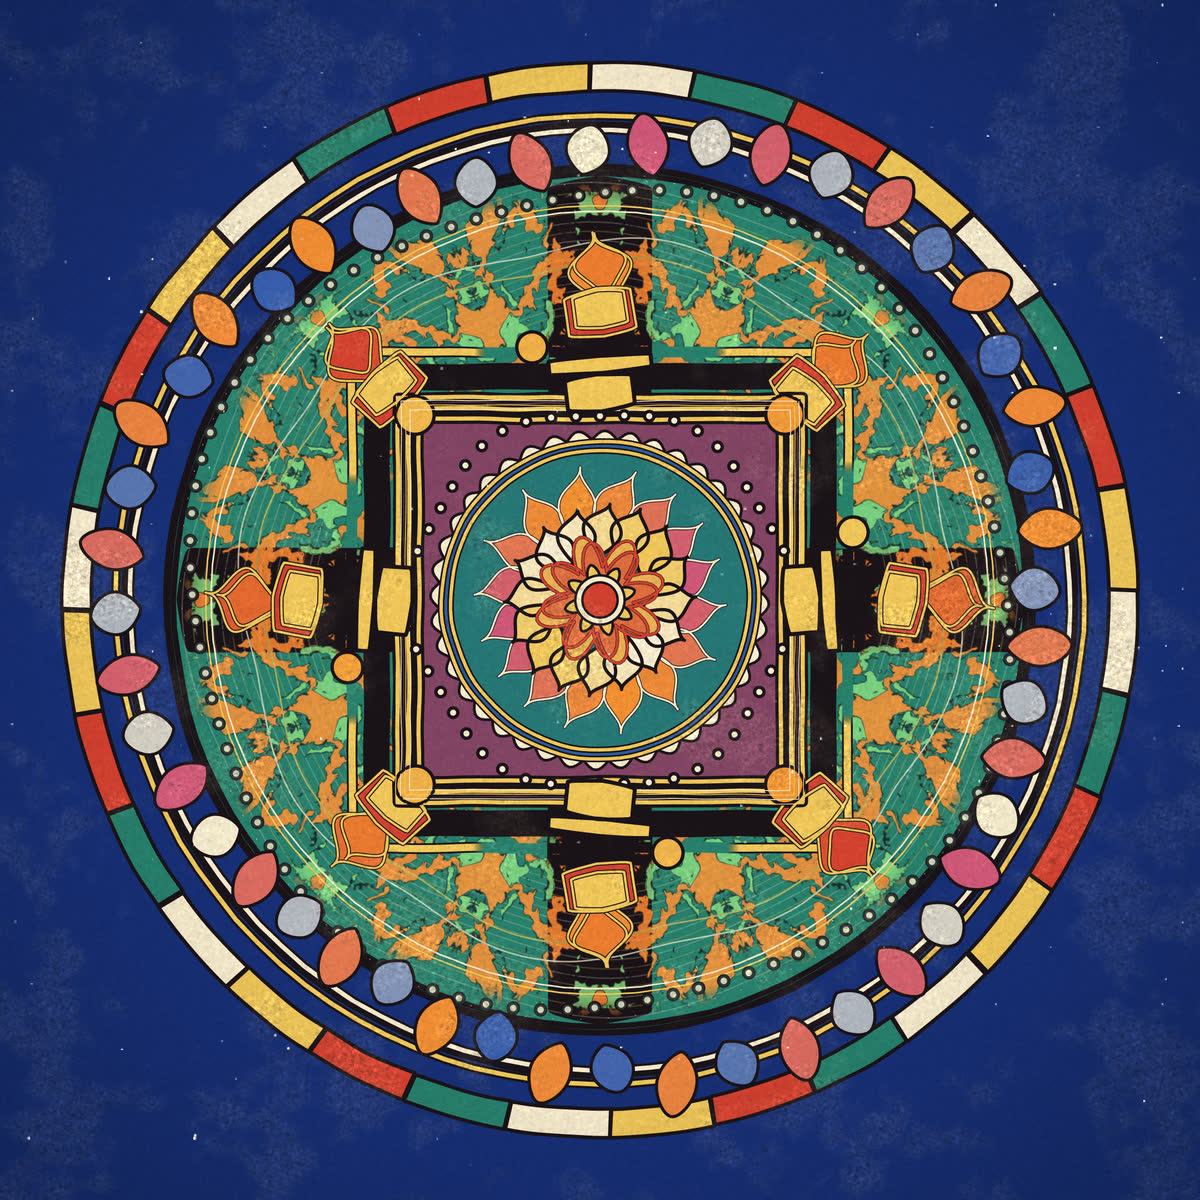
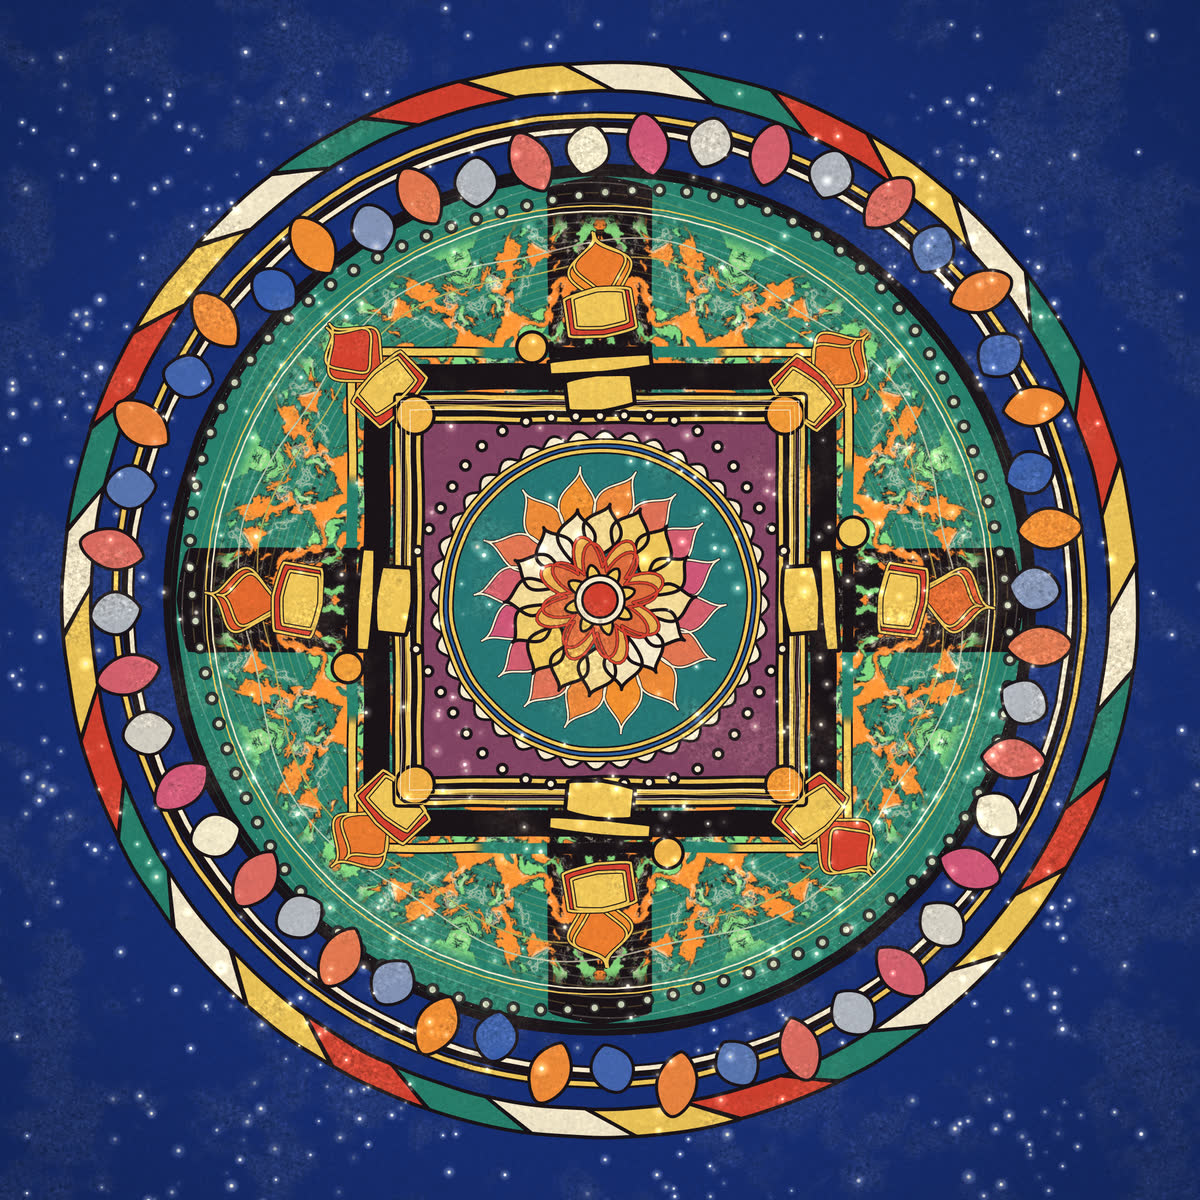
mandala: visible random specks of light, angled candy-cane notches
- specks were clipped to a 3px lattice cell and half-faded, so they never
  read; now hot core + soft halo points scattered up to 1.25 cells off a
  12px lattice (5x5 neighbour check), clumped by the smooth patch noise
  whose hot regions wander; Sparkle Density 0.0002 (about 200 at 1080p)
- arc shape: Amplitude skews the segment ends, so the outer wheel's
  notches slant like a candy cane instead of pointing at the centre
- collection copy, prompt, cover and platform seed data regenerated; loop
  re-rendered and verified (1200 unique frames, 0 drops, seam matches)

diff --git a/specimens/generative/mandala.prompt.md b/specimens/generative/mandala.prompt.md
@@ -12,8 +12,8 @@ symmetry, colours, nesting and animation are dialled from custom parameters, and
 thing breathes: petals tumble and travel in waves, colours cross-fade around the rings,
 nested rings spin at different rates, tips flex between round and pointed. A GLSL finish
 ages it into a worn cloth painting -- patchy fade toward paper, paper-fibre grunge only in
-those patches, a soft vignette, grain and sparse shimmering specks of light (Sparkle Density, Clumping,
-Shimmer on the Wear page). With Loop on, every rate is snapped so the whole
+those patches, a soft vignette, grain and sparse shimmering specks of light scattered at random and
+clumped by the same smooth noise (Sparkle Density, Clumping, Shimmer on the Wear page). With Loop on, every rate is snapped so the whole
 mandala repeats exactly every Loop Length seconds.
 
 ## What it teaches
@@ -28,7 +28,7 @@ mandala repeats exactly every Loop Length seconds.
   `texelFetch(uP, layer * 64 + j)`. A per-layer GLSL POP with 28 expression uniforms costs
   0.4 ms per cook (TD re-evaluates every expression each cook); this costs nothing.
 - **Outlines as a function of angle.** Polygon, star, rosette, scallop, petal, bar, dot and arc
-  (a ring segment) are all `r(u)` or `(x(s), y(s))` remaps of the same closed line strip, so one Detail
+  (a ring segment whose Amplitude slants its ends into candy-cane notches) are all `r(u)` or `(x(s), y(s))` remaps of the same closed line strip, so one Detail
   parameter controls smoothness and the same code serves lines and fills.
 - **Fills without triangulation.** The fill circle is a `Circle POP` with Surface
   connectivity (a fan with a centre point); the shader maps the centre to the shape's pivot,
@@ -106,8 +106,8 @@ mandala repeats exactly every Loop Length seconds.
 > copies alternating cream and gold, one shared phase so they never cross, breathing amplitude
 > and spacing;
 > a second family is included switched off), dark framing ring, four-colour outer
-> petal ring, gold rings, a thin candy-cane ring (two interleaved layers of sixteen arc segments,
-> vermilion/cream and teal/gold, ink-rimmed, turning slowly), lace border, eight vase treasures, a bold ink cross (four square-ended
+> petal ring, gold rings, a thin candy-cane ring (two interleaved layers of sixteen arc segments
+> with slanted ends, vermilion/cream and teal/gold, ink-rimmed, turning slowly), lace border, eight vase treasures, a bold ink cross (four square-ended
 > bars from the centre to the vases, drawn beneath the scrollwork), bead and tick rings, palace
 > square with nested bands, a heavy ink wall and gold corner brackets (Gap cuts the middle
 > of each edge), thin nested lines, gates on top, corner medallions, dotted lotus
